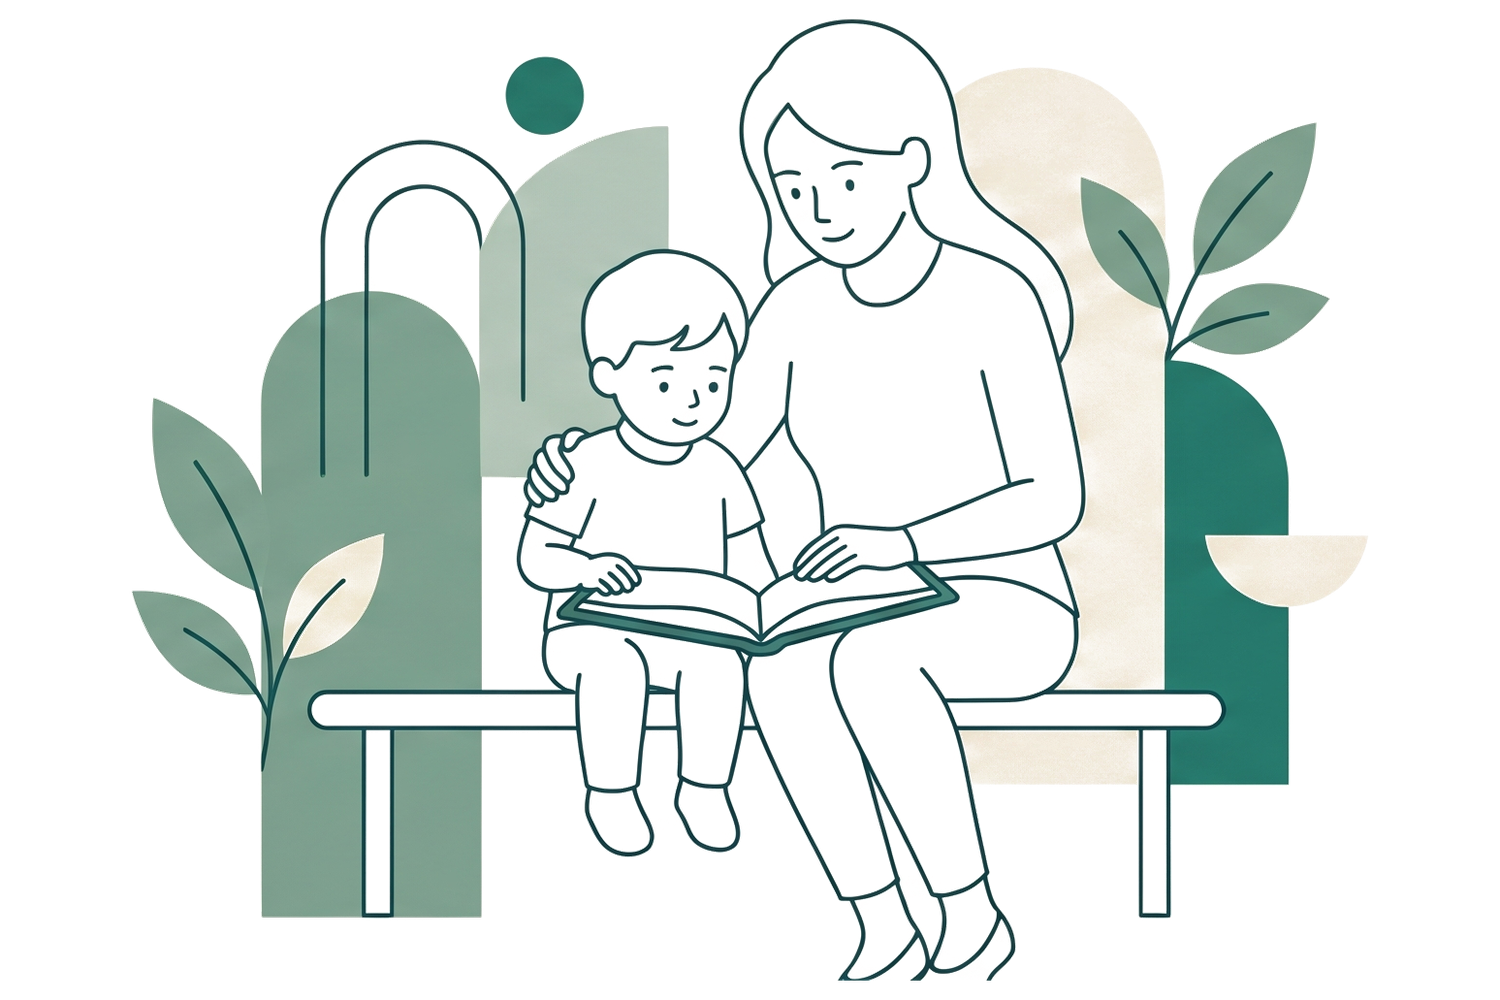
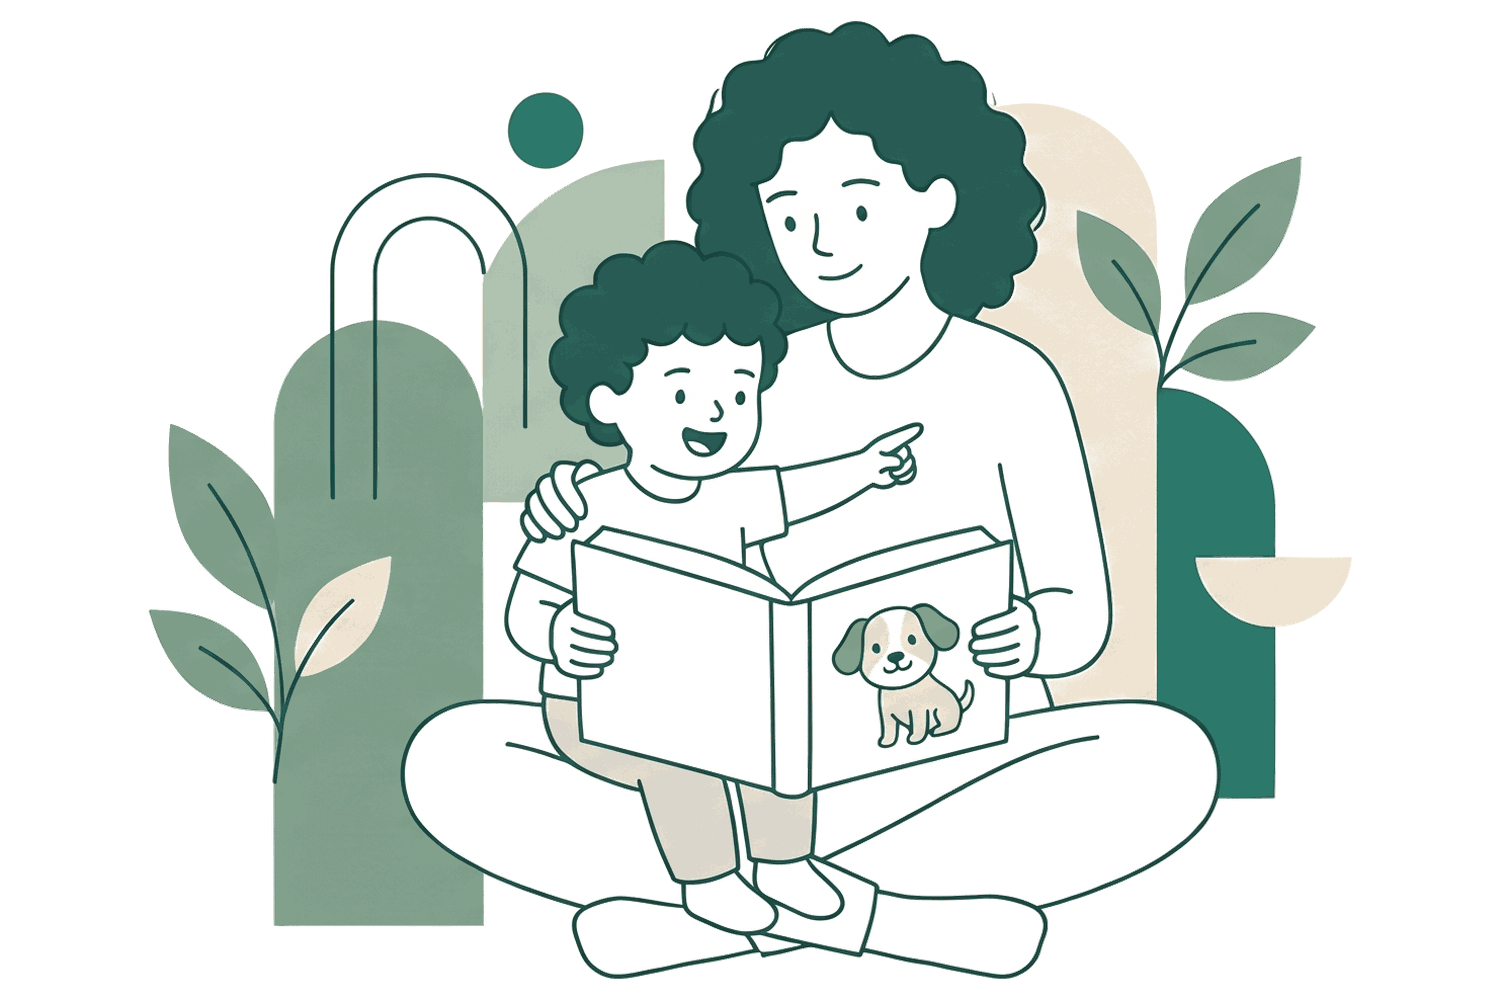
feat(ilustracoes): novas artes da clínica (leitura, brincar, espelho) com animação Lottie
- Troca as cenas pelas artes novas: leitura compartilhada, pai e filho com a
  vaquinha e treino miofuncional no espelho (recortadas, fundo transparente,
  PNG otimizado ~190 KB cada).
- Volta a cena espelho para fala, imitação e motricidade oral.
- Camada Lottie por cena no mesmo quadro 1500x1000: brilhos, balões, sopros
  e o novo elemento "ondas" (ondas de som saindo da boca), loop de 3 s.

Claude-Session: https://claude.ai/code/session_01U3dGr3XzzqwEGBLqQzyvsY

Changed region(s): [[0.092, 0.0, 0.92, 0.992], [0.3987, 0.961, 0.46, 0.992]]

diff --git a/src/components/animacoes/lottieCena.ts b/src/components/animacoes/lottieCena.ts
@@ -9,8 +9,11 @@ export const FPS = 60;
 /** 3 s por ciclo, lento como Calm/Headspace */
 export const QUADROS = 180;
 
-/** Recorte da arte (viewBox do SVG original): a camada Lottie usa o mesmo quadro. */
-export const RECORTE = { x: 90, y: 160, largura: 1020, altura: 640 } as const;
+/** Quadro das artes (PNG 1500x1000): a camada Lottie usa as mesmas coordenadas em pixels. */
+export const RECORTE = { x: 0, y: 0, largura: 1500, altura: 1000 } as const;
+
+/** Espessura do traço, igual ao line art das artes nesse quadro. */
+const TRACO = 3.5;
 
 const LINHA = '#1D4F48';
 
@@ -44,7 +47,7 @@ export function animado(f: (t: number) => Valor, passos = 12) {
 
 const TRANSFORMACAO = { ty: 'tr', p: fixo([0, 0]), a: fixo([0, 0]), s: fixo([100, 100]), r: fixo(0), o: fixo(100), sk: fixo(0), sa: fixo(0) };
 
-function traco(largura = 2.5, c = LINHA, tracejado?: unknown[]) {
+function traco(largura = TRACO, c = LINHA, tracejado?: unknown[]) {
   return { ty: 'st', c: fixo(cor(c)), o: fixo(100), w: fixo(largura), lc: 2, lj: 2, ml: 4, ...(tracejado ? { d: tracejado } : {}) };
 }
 const preenchimento = (c: string, opacidade = 100) => ({ ty: 'fl', c: fixo(cor(c)), o: fixo(opacidade), r: 1 });
@@ -59,7 +62,7 @@ function camada(nome: string, formas: unknown[], ks: Ks) {
     shapes: formas,
   };
 }
-/** Coordenada da arte (SVG de 1200x900) para o quadro recortado. */
+/** Coordenada da arte para o quadro da camada. */
 const pos = (x: number, y: number) => [x - RECORTE.x, y - RECORTE.y, 0];
 const TAU = Math.PI * 2;
 
@@ -79,13 +82,13 @@ export function folha(x: number, y: number, angulo: number, escala: number, c: s
 }
 
 /** Balão em pílula: aparece, sobe alguns pixels e some. `fase` (0..1) desloca no ciclo. */
-export function pilula(x: number, y: number, w: number, h: number, c: string, o: { fase?: number; rotacao?: number; sobe?: number } = {}) {
-  const { fase = 0, rotacao = 0, sobe = 22 } = o;
+export function pilula(x: number, y: number, w: number, h: number, c: string, o: { fase?: number; rotacao?: number; sobe?: number; anda?: number } = {}) {
+  const { fase = 0, rotacao = 0, sobe = 22, anda = 0 } = o;
   const cx = x + w / 2;
   const cy = y + h / 2;
   const u = (t: number) => (t + fase) % 1;
   return camada('balao', [grupo({ ty: 'rc', p: fixo([0, 0]), s: fixo([w, h]), r: fixo(h / 2), d: 1 }, traco(), preenchimento(c))], {
-    p: animado((t) => pos(cx, cy + sobe / 2 - sobe * u(t)), 24),
+    p: animado((t) => pos(cx - anda / 2 + anda * u(t), cy + sobe / 2 - sobe * u(t)), 24),
     r: fixo(rotacao),
     o: animado((t) => 100 * Math.max(0, Math.min(1, u(t) / 0.3, (0.92 - u(t)) / 0.25)), 24),
   });
@@ -118,6 +121,31 @@ export function ondaDeSom(pontos: [number, number][], entrada: number[][], saida
     { n: 'o', nm: 'deslocamento', v: { a: 1, k: [{ t: 0, s: [0], i: { x: [1], y: [1] }, o: { x: [0], y: [0] } }, { t: QUADROS, s: [-44] }] } },
   ];
   return camada('onda', [grupo(caminho(v, entrada, saida, false), traco(3, c, tracejado))], { p: fixo([0, 0, 0]) });
+}
+
+const arco = (raio: number, abertura: number) => {
+  // arco de circunferência centrado no eixo x, aproximado por bezier cúbica
+  const a = (abertura * Math.PI) / 360;
+  const k = (4 / 3) * Math.tan(a / 2) * raio;
+  const p0 = [raio * Math.cos(-a), raio * Math.sin(-a)];
+  const p1 = [raio * Math.cos(a), raio * Math.sin(a)];
+  const t0 = [-Math.sin(-a) * k, Math.cos(-a) * k];
+  const t1 = [Math.sin(a) * k, -Math.cos(a) * k];
+  return caminho([p0, p1], [[0, 0], t1], [t0, [0, 0]], false);
+};
+
+/** Ondas de som ")))" saindo de um ponto (boca), uma depois da outra. `angulo` em graus (0 = para a direita). */
+export function ondas(x: number, y: number, angulo: number, c: string, o: { escala?: number; fase?: number } = {}) {
+  const { escala = 1, fase = 0 } = o;
+  return [0, 1, 2].map((n) => {
+    const u = (t: number) => (t + fase - n * 0.16 + 1) % 1;
+    return camada('onda', [grupo(arco(22 + n * 18, 70), traco(TRACO, c))], {
+      p: fixo(pos(x, y)),
+      r: fixo(angulo),
+      s: fixo([escala * 100, escala * 100, 100]),
+      o: animado((t) => 100 * Math.max(0, Math.min(1, u(t) / 0.2, (0.7 - u(t)) / 0.25)), 24),
+    });
+  });
 }
 
 export function composicao(nome: string, camadas: Record<string, unknown>[]): LottieJson {

diff --git a/src/components/animacoes/cenas.ts b/src/components/animacoes/cenas.ts
@@ -1,16 +1,21 @@
 import type { ImageSourcePropType } from 'react-native';
 
-import type { LottieJson } from './lottieCena';
+import { brilho, composicao, ondas, pilula, type LottieJson } from './lottieCena';
 
-// As 3 cenas do app: ilustrações flat 2D + line art criadas pela clínica (Gemini),
-// recortadas sem título/logo e com fundo transparente. Cada uma pode receber uma
-// camada Lottie por cima (só elementos de fundo que se mexem); por ora vão paradas.
+// As 3 cenas do app: ilustrações flat 2D + line art criadas pela clínica, recortadas
+// sem título/logo e com fundo transparente (PNG 1500x1000). Por cima, uma camada Lottie
+// transparente no mesmo quadro mexe só o que é "ar" da cena: brilhos, balões, sopros e ondas de som.
 
-export type NomeCena = 'leitura' | 'brincar' | 'movimento';
+const VERDE = '#1F7A6B';
+const SALVIA = '#CFE0D8';
+const CREME = '#EADFC8';
+const PAPEL = '#F7F5F0';
+
+export type NomeCena = 'leitura' | 'brincar' | 'espelho';
 
 export type Cena = {
   imagem: ImageSourcePropType;
-  /** camada Lottie transparente opcional, alinhada à arte */
+  /** camada Lottie transparente, no mesmo quadro da arte */
   animacao?: LottieJson;
   /** largura / altura */
   proporcao: number;
@@ -21,19 +26,43 @@ export type Cena = {
 const PROPORCAO = 1500 / 1000;
 
 export const CENAS: Record<NomeCena, Cena> = {
+  // Leitura compartilhada: o filho aponta o cachorrinho do livro; brilhos no desenho e balões saindo do dedo.
   leitura: {
     imagem: require('../../../assets/images/ilustracoes/leitura.png'),
     proporcao: PROPORCAO,
-    rotulo: 'Mãe e filho lendo um livro juntos no banco',
+    rotulo: 'Mãe e filho lendo juntos; o filho aponta o cachorrinho do livro',
+    animacao: composicao('leitura', [
+      brilho(842, 590, 2.4, VERDE, 0),
+      brilho(985, 600, 1.8, SALVIA, 2.1),
+      brilho(1060, 450, 1.6, CREME, 4.2),
+      pilula(935, 345, 110, 50, PAPEL, { sobe: 40 }),
+      pilula(1010, 270, 80, 40, SALVIA, { fase: 0.5, sobe: 34 }),
+    ]),
   },
+  // Pai e filho com a vaquinha: o "muuu" sai em ondas da vaca e brilhos piscam em volta.
   brincar: {
     imagem: require('../../../assets/images/ilustracoes/brincar.png'),
     proporcao: PROPORCAO,
-    rotulo: 'Duas crianças brincando de empilhar blocos no tapete',
+    rotulo: 'Pai mostra uma vaquinha de brinquedo e o filho aponta, sorrindo',
+    animacao: composicao('brincar', [
+      ...ondas(866, 456, -40, VERDE, { escala: 2.2 }),
+      brilho(975, 330, 2.2, VERDE, 0.8),
+      brilho(1340, 470, 1.8, CREME, 2.9),
+      brilho(600, 410, 1.6, SALVIA, 4.6),
+    ]),
   },
-  movimento: {
-    imagem: require('../../../assets/images/ilustracoes/movimento.png'),
+  // Treino miofuncional no espelho: ondas saem da boca da mãe, sopros saem do biquinho da filha
+  // e o espelho brilha.
+  espelho: {
+    imagem: require('../../../assets/images/ilustracoes/espelho.png'),
     proporcao: PROPORCAO,
-    rotulo: 'Criança se equilibrando sobre blocos',
+    rotulo: 'Mãe e filha fazendo biquinho diante do espelho',
+    animacao: composicao('espelho', [
+      ...ondas(724, 286, 0, VERDE, { escala: 2.2 }),
+      pilula(955, 520, 38, 38, PAPEL, { sobe: 24, anda: 110 }),
+      pilula(955, 556, 28, 28, SALVIA, { fase: 0.45, sobe: 16, anda: 90 }),
+      brilho(1318, 236, 2.4, VERDE, 0),
+      brilho(1170, 330, 1.8, SALVIA, 3.1),
+    ]),
   },
 };

diff --git a/src/components/animacoes/__tests__/lottieCena.test.ts b/src/components/animacoes/__tests__/lottieCena.test.ts
@@ -1,4 +1,4 @@
-import { animado, composicao, folha, QUADROS } from '../lottieCena';
+import { animado, composicao, folha, ondas, QUADROS } from '../lottieCena';
 
 describe('microanimações em código', () => {
   it('fecha o loop: primeiro e último quadro iguais', () => {
@@ -18,5 +18,17 @@ describe('microanimações em código', () => {
     const json = composicao('teste', [folha(0, 0, 0, 1, '#1F7A6B'), folha(10, 10, 0, 1, '#1F7A6B')]);
     expect((json.layers as { ind: number }[]).map((l) => l.ind)).toEqual([1, 2]);
     expect(JSON.stringify(json).length).toBeLessThan(10_000);
+  });
+});
+
+describe('ondas de som', () => {
+  it('cria 3 arcos que somem e voltam no mesmo ponto do ciclo', () => {
+    const camadas = ondas(100, 100, 0, '#1F7A6B') as unknown as { ks: { o: { k: { s: number[] }[] } } }[];
+    expect(camadas).toHaveLength(3);
+    for (const c of camadas) {
+      const op = c.ks.o.k.map((q) => q.s[0]);
+      expect(op[0]).toBeCloseTo(op[op.length - 1], 3);
+      expect(Math.min(...op)).toBe(0);
+    }
   });
 });

diff --git a/src/content/ilustracoes.ts b/src/content/ilustracoes.ts
@@ -3,18 +3,18 @@ import type { Area } from '@/content/perguntas';
 
 /**
  * Qual cena flat 2D (src/components/animacoes) ilustra cada área da missão.
- * Linguagem e escuta: leitura (mãe e filho lendo). Gestos e imitação: movimento.
- * O resto (brincar, interação, alimentação...): brincar (duas crianças com blocos).
+ * Fala, imitação e motricidade oral: espelho. Compreensão, narrativa e escuta: leitura.
+ * O resto (brincar, interação, gestos...): brincar.
  */
 const POR_AREA: Partial<Record<Area, NomeCena>> = {
-  fala: 'leitura',
+  fala: 'espelho',
+  imitacao: 'espelho',
+  motricidade_oral: 'espelho',
+  inteligibilidade: 'espelho',
   compreensao: 'leitura',
   narrativa: 'leitura',
   consciencia_fonologica: 'leitura',
-  inteligibilidade: 'leitura',
   audicao: 'leitura',
-  gestos: 'movimento',
-  imitacao: 'movimento',
 };
 
 export function cenaDaArea(area: Area | undefined): NomeCena {

diff --git a/src/components/animacoes/CenaAnimada.tsx b/src/components/animacoes/CenaAnimada.tsx
@@ -52,7 +52,7 @@ export function CenaAnimada({ cena, style, titulo, legenda, fundo = true }: Prop
 
 export const CenaLeitura = (p: Omit<Props, 'cena'>) => <CenaAnimada cena="leitura" {...p} />;
 export const CenaBrincar = (p: Omit<Props, 'cena'>) => <CenaAnimada cena="brincar" {...p} />;
-export const CenaMovimento = (p: Omit<Props, 'cena'>) => <CenaAnimada cena="movimento" {...p} />;
+export const CenaEspelho = (p: Omit<Props, 'cena'>) => <CenaAnimada cena="espelho" {...p} />;
 
 const s = StyleSheet.create({
   palco: { width: '100%', overflow: 'hidden' },
